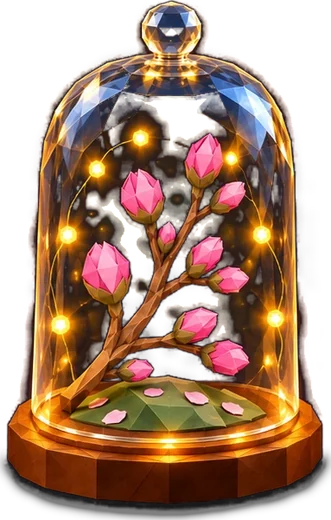
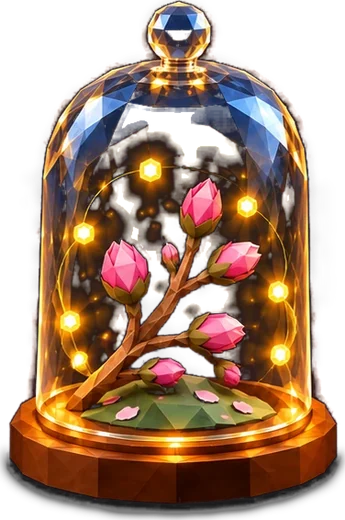
Trophäen mit den Bildern des Nutzers: Kristalle, Orbs, neue Kirschzweig-Glocken; wachsende Trophäen zeigen nur die höchste Stufe

diff --git a/index.html b/index.html
@@ -4923,7 +4923,7 @@ function trophyShelf(){
    device): the first and further exercises, each exercise 10 times (its picture under a glass bell), days in a row
    (crystals that grow), wheels, reached goals, diary pages and gratitude. New ones show up once, big, then stand on the
    shelf. The pictures are drawn placeholders until the person's own pictures arrive (TROPHY_PLACEHOLDER). */
-const TROPHY_PLACEHOLDER = true;
+const TROPHY_PLACEHOLDER = false; // all trophies are the person's own pictures now
 const TROPHY_SEEN_KEY = 'ewolfe_trophies_seen';
 const TROPHY_TIERS = ['#c98a4a', '#c9d2e6', '#f4c542']; // bronze, silver, gold
 function trophyEvents(){
@@ -4954,28 +4954,40 @@ function trophyEvents(){
 }
 function trophyDefs(){
   const D = state.settings.lang === 'en' ? 1 : 0, L = (de, en)=>D ? en : de;
-  const out = [];
-  const lvl = (id, kind, list, levels, color, titleFn, descFn)=>levels.forEach((n, i)=>out.push({ id:id + n, kind, color, tier:Math.min(2, Math.floor(i * 3 / levels.length)), size:i, need:n, list, title:titleFn(n), desc:descFn(n) }));
-  const ev = trophyEvents();
-  lvl('ex', 'orb', ev.done.map(e=>e.ts), [1, 5, 10, 25, 50, 100], '#58d48f', n=>n === 1 ? L('Erste Übung', 'First exercise') : L(n + ' Übungen', n + ' exercises'), n=>n === 1 ? L('Du hast deine erste Achtsamkeitsübung gemacht.', 'You did your first mindfulness exercise.') : L('Du hast ' + n + ' Achtsamkeitsübungen gemacht.', 'You did ' + n + ' mindfulness exercises.'));
-  // Box Breathing grows with you: bud (3×), half open (10×), open (25×) – the person's own pictures; only the highest stands on the shelf
-  [[3, 0.5], [10, 0.75], [25, 1]].forEach(([n, sc], i)=>out.push({ id:'box' + n, group:'box', stage:i, kind:'img', img:'trophy-lotus-' + (i + 1), aspect:0.86, scale:sc, need:n, list:ev.byEx('seed-box'),
-    title:L(['Lotusknospe unter Glas', 'Halb offener Lotus unter Glas', 'Blauer Lotus unter Glas'][i], ['Lotus bud under glass', 'Half open lotus under glass', 'Blue lotus under glass'][i]),
-    desc:L(n + '-mal Box Breathing – dein Lotus wächst mit dir.', 'Box breathing ' + n + ' times – your lotus grows with you.') }));
-  // 4-7-8 grows the same way: closed buds, half open, in full bloom – a taller, narrower glass
-  [[3, 0.5], [10, 0.75], [25, 1]].forEach(([n, sc], i)=>out.push({ id:'b478-' + n, group:'b478', stage:i, kind:'img', img:'trophy-cherry-' + (i + 1), aspect:0.62, scale:sc, need:n, list:ev.byEx('seed-478'),
-    title:L(['Kirschknospen unter Glas', 'Blühender Kirschzweig unter Glas', 'Kirschblüte unter Glas'][i], ['Cherry buds under glass', 'Blossoming cherry branch under glass', 'Cherry blossom under glass'][i]),
-    desc:L(n + '-mal 4-7-8-Atmung – dein Kirschzweig blüht mit dir auf.', '4-7-8 breathing ' + n + ' times – your cherry branch blossoms with you.') }));
-  [ ['seed-54321', 'stones', '5-4-3-2-1'], ['seed-stille', 'bowl', L('Stille Meditation', 'Silent meditation')], ['seed-lemon', 'lemon', 'Lemonmeditation']].forEach(([ex, pic, name])=>
-    out.push({ id:'dome-' + ex, kind:'dome', pic, color:'#b8a4ff', tier:2, need:10, list:ev.byEx(ex), title:L(name + ' unter Glas', name + ' under glass'), desc:L('10-mal ' + name + ' – ein kleiner Schatz für dein Regal.', name + ' 10 times – a little treasure for your shelf.') }));
-  out.push({ id:'dome-grat', kind:'dome', pic:'heart', color:'#ff9ab8', tier:2, need:7, list:ev.grat, title:L('Dankbarkeit unter Glas', 'Gratitude under glass'), desc:L('An 7 Abenden hast du aufgeschrieben, wofür du dankbar bist.', 'On 7 evenings you wrote down what you are grateful for.') });
-  [3, 5, 7, 14, 30, 100].forEach((n, i)=>out.push({ id:'streak' + n, kind:'crystal', color:'#a29dfb', tier:Math.min(2, Math.floor(i / 2)), size:i, need:1, list:ev.streakAt[n] ? [ev.streakAt[n]] : [], title:L(n + ' Tage in Folge', n + ' days in a row'), desc:L('Du hast an ' + n + ' Tagen hintereinander geübt.', 'You practised on ' + n + ' days in a row.'), have:()=>Math.min(n, Object.keys(ev.streakAt).length ? Math.max(...Object.keys(ev.streakAt).map(Number)) : 0), needShow:n }));
-  lvl('wheel', 'orb', ev.wheels, [1, 5, 10], '#b8a4ff', n=>n === 1 ? L('Erstes Lebensrad', 'First wheel of life') : L(n + ' Lebensräder', n + ' wheels of life'), n=>n === 1 ? L('Du hast dein erstes Lebensrad erstellt.', 'You created your first wheel of life.') : L('Du hast ' + n + ' Lebensräder erstellt.', 'You created ' + n + ' wheels of life.'));
-  out.push({ id:'up10', kind:'orb', color:'#58d48f', tier:1, size:2, need:1, list:ev.improved10 ? [ev.improved10] : [], title:L('Plus 10', 'Plus 10'), desc:L('Ein Lebensbereich ist um 10 Punkte gewachsen.', 'One area of life grew by 10 points.') });
-  out.push({ id:'upall', kind:'orb', color:'#f4c542', tier:2, size:3, need:1, list:ev.improvedAll ? [ev.improvedAll] : [], title:L('Rundum gewachsen', 'Grown all around'), desc:L('Alle fünf Lebensbereiche haben sich verbessert.', 'All five areas of life have improved.') });
-  lvl('goal', 'orb', ev.goals, [1, 5, 10], '#f4c542', n=>n === 1 ? L('Erstes Ziel erreicht', 'First goal reached') : L(n + ' Ziele erreicht', n + ' goals reached'), n=>L(n === 1 ? 'Du hast dein erstes Ziel erreicht.' : 'Du hast ' + n + ' Ziele erreicht.', n === 1 ? 'You reached your first goal.' : 'You reached ' + n + ' goals.'));
-  lvl('page', 'orb', ev.pages, [1, 10, 50, 100], '#ff9ab8', n=>n === 1 ? L('Erste Tagebuchseite', 'First diary page') : L(n + ' Tagebuchseiten', n + ' diary pages'), n=>L(n === 1 ? 'Du hast die erste Seite in dein Tagebuch geschrieben.' : 'Du hast ' + n + ' Seiten in dein Tagebuch geschrieben.', n === 1 ? 'You wrote the first page of your diary.' : 'You wrote ' + n + ' diary pages.'));
-  out.push({ id:'grat1', kind:'orb', color:'#ff9ab8', tier:0, size:0, need:1, list:ev.grat, title:L('Erste Dankbarkeit', 'First gratitude'), desc:L('Du hast zum ersten Mal aufgeschrieben, wofür du dankbar bist.', 'You wrote down for the first time what you are grateful for.') });
+  const out = [], ev = trophyEvents();
+  // a trophy that grows: every stage has its own picture, only the highest reached one stands on the shelf
+  const grow = (group, list, stages, aspect, titleFn, descFn)=>stages.forEach(([n, img, scale], i)=>out.push({ id:group + n, group, stage:i, kind:'img', img, scale, aspect, need:n, list, title:titleFn(n, i), desc:descFn(n, i) }));
+  // exercises: crystals in more and more precious colours
+  grow('ex', ev.done.map(e=>e.ts), [[1, 'crystal-mint', 0.55], [5, 'crystal-blue', 0.6], [10, 'crystal-purple', 0.66], [25, 'crystal-pink', 0.72], [50, 'crystal-silver', 0.8], [100, 'crystal-gold', 0.9]], 0.75,
+    n=>n === 1 ? L('Erste Übung', 'First exercise') : L(n + ' Übungen', n + ' exercises'),
+    n=>n === 1 ? L('Du hast deine erste Achtsamkeitsübung gemacht.', 'You did your first mindfulness exercise.') : L('Du hast ' + n + ' Achtsamkeitsübungen gemacht.', 'You did ' + n + ' mindfulness exercises.'));
+  // Box Breathing and 4-7-8 grow under their glass: bud, half open, open
+  grow('box', ev.byEx('seed-box'), [[3, 'trophy-lotus-1', 0.5], [10, 'trophy-lotus-2', 0.75], [25, 'trophy-lotus-3', 1]], 0.86,
+    (n, i)=>L(['Lotusknospe unter Glas', 'Halb offener Lotus unter Glas', 'Blauer Lotus unter Glas'][i], ['Lotus bud under glass', 'Half open lotus under glass', 'Blue lotus under glass'][i]),
+    n=>L(n + '-mal Box Breathing – dein Lotus wächst mit dir.', 'Box breathing ' + n + ' times – your lotus grows with you.'));
+  grow('b478', ev.byEx('seed-478'), [[3, 'trophy-cherry-1', 0.5], [10, 'trophy-cherry-2', 0.75], [25, 'trophy-cherry-3', 1]], 0.62,
+    (n, i)=>L(['Kirschknospen unter Glas', 'Blühender Kirschzweig unter Glas', 'Kirschblüte unter Glas'][i], ['Cherry buds under glass', 'Blossoming cherry branch under glass', 'Cherry blossom under glass'][i]),
+    n=>L(n + '-mal 4-7-8-Atmung – dein Kirschzweig blüht mit dir auf.', '4-7-8 breathing ' + n + ' times – your cherry branch blossoms with you.'));
+  // days in a row: a crystal that grows
+  const streakMax = Object.keys(ev.streakAt).length ? Math.max(...Object.keys(ev.streakAt).map(Number)) : 0;
+  [3, 5, 7, 14, 30, 100].forEach((n, i)=>out.push({ id:'streak' + n, group:'streak', stage:i, kind:'img', img:'crystal-' + (i + 1), scale:0.55 + i * 0.08, aspect:0.75, need:1, needShow:n,
+    list:ev.streakAt[n] ? [ev.streakAt[n]] : [], have:()=>Math.min(n, streakMax),
+    title:L(n + ' Tage in Folge', n + ' days in a row'), desc:L('Du hast an ' + n + ' Tagen hintereinander geübt.', 'You practised on ' + n + ' days in a row.') }));
+  // glowing orbs: wheels (violet), goals (gold), diary pages (blue), gratitude (pink), growth (green), all areas (rainbow)
+  grow('wheel', ev.wheels, [[1, 'orb-purple', 0.55], [5, 'orb-purple', 0.7], [10, 'orb-purple', 0.85]], 0.85,
+    n=>n === 1 ? L('Erstes Lebensrad', 'First wheel of life') : L(n + ' Lebensräder', n + ' wheels of life'),
+    n=>n === 1 ? L('Du hast dein erstes Lebensrad erstellt.', 'You created your first wheel of life.') : L('Du hast ' + n + ' Lebensräder erstellt.', 'You created ' + n + ' wheels of life.'));
+  grow('goal', ev.goals, [[1, 'orb-gold', 0.55], [5, 'orb-gold', 0.7], [10, 'orb-gold', 0.85]], 0.82,
+    n=>n === 1 ? L('Erstes Ziel erreicht', 'First goal reached') : L(n + ' Ziele erreicht', n + ' goals reached'),
+    n=>L(n === 1 ? 'Du hast dein erstes Ziel erreicht.' : 'Du hast ' + n + ' Ziele erreicht.', n === 1 ? 'You reached your first goal.' : 'You reached ' + n + ' goals.'));
+  grow('page', ev.pages, [[1, 'orb-blue', 0.5], [10, 'orb-blue', 0.62], [50, 'orb-blue', 0.74], [100, 'orb-blue', 0.86]], 0.85,
+    n=>n === 1 ? L('Erste Tagebuchseite', 'First diary page') : L(n + ' Tagebuchseiten', n + ' diary pages'),
+    n=>L(n === 1 ? 'Du hast die erste Seite in dein Tagebuch geschrieben.' : 'Du hast ' + n + ' Seiten in dein Tagebuch geschrieben.', n === 1 ? 'You wrote the first page of your diary.' : 'You wrote ' + n + ' diary pages.'));
+  grow('grat', ev.grat, [[1, 'orb-pink', 0.55], [7, 'orb-pink', 0.72], [30, 'orb-pink', 0.88]], 0.88,
+    n=>n === 1 ? L('Erste Dankbarkeit', 'First gratitude') : L(n + ' Abende Dankbarkeit', n + ' evenings of gratitude'),
+    n=>L(n === 1 ? 'Du hast zum ersten Mal aufgeschrieben, wofür du dankbar bist.' : 'An ' + n + ' Abenden hast du aufgeschrieben, wofür du dankbar bist.', n === 1 ? 'You wrote down for the first time what you are grateful for.' : 'On ' + n + ' evenings you wrote down what you are grateful for.'));
+  out.push({ id:'up10', kind:'img', img:'orb-green', scale:0.7, aspect:0.83, need:1, list:ev.improved10 ? [ev.improved10] : [], title:L('Plus 10', 'Plus 10'), desc:L('Ein Lebensbereich ist um 10 Punkte gewachsen.', 'One area of life grew by 10 points.') });
+  out.push({ id:'upall', kind:'img', img:'orb-rainbow', scale:0.9, aspect:0.87, need:1, list:ev.improvedAll ? [ev.improvedAll] : [], title:L('Rundum gewachsen', 'Grown all around'), desc:L('Alle fünf Lebensbereiche haben sich verbessert.', 'All five areas of life have improved.') });
   return out;
 }
 function trophyList(){ return trophyDefs().map(x=>({ ...x, have:x.have ? x.have() : Math.min(x.need, x.list.length), need:x.needShow || x.need, at:x.list.length >= x.need ? (x.list[x.need - 1] || 1) : null })); }
